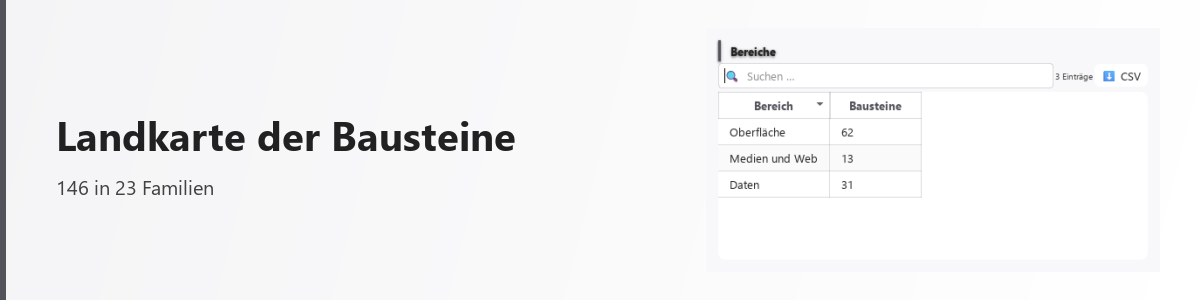
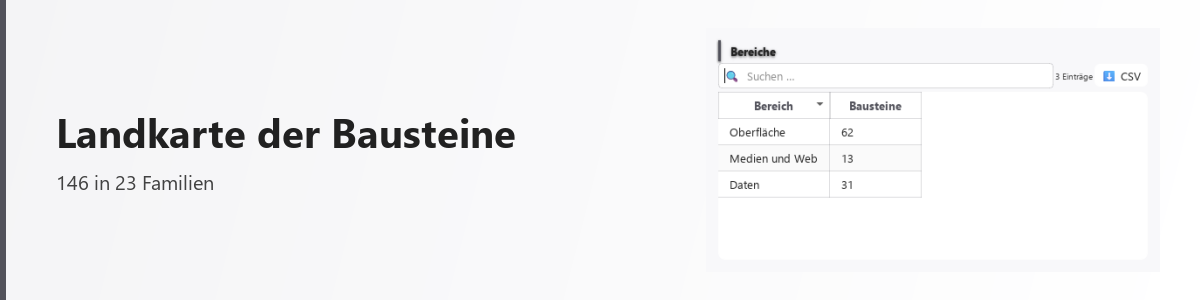
Schaufenster: die Kopfbilder zeigen ihren Titel ganz, und kein Verweis zeigt ins Leere
Zwei Nachbesserungen am veroeffentlichten Stand:

- Die 20 Kopfbilder sind neu erzeugt. Der Titel wurde bisher in ein fest zugeschnittenes
  Feld gemalt und dabei oben und unten angeschnitten; er wird jetzt gemessen.
- Das README verwies auf docs/ENTWICKLERSTART.md — eine Datei aus dem Quelltext-Baum, den
  dieser Zweig bewusst nicht traegt. Der Verweis ist eine Angabe geworden.

Erzeugt mit scripts/schaufenster_zweig.py --bauen (Inhalt aus dem Commit, nicht aus dem
Arbeitsbaum).

Changed region(s): [[0.0308, 0.39, 0.4317, 0.51], [0.0308, 0.57, 0.185, 0.66]]

diff --git a/public/news/index.md b/public/news/index.md
@@ -6,4 +6,12 @@ icon: material/bullhorn
 Nicht jede Fassung bekommt hier einen Eintrag. Aufgeführt ist, was für die
 Benutzung einen Unterschied macht — nicht jede innere Änderung.
 
-Bisher gibt es keinen Eintrag.
+| Fassung | Was sich geändert hat |
+| --- | --- |
+| [2.998.0](2.998.0.md) | Woher die Bestandteile kommen, steht jetzt geschrieben |
+| [2.981.0](2.981.0.md) | Die Website gibt es jetzt auch auf Englisch |
+| [2.975.0](2.975.0.md) | Videos bekommen Untertitel |
+| [2.965.0](2.965.0.md) | Die Plattform hat jetzt eine Startseite |
+
+Die Veröffentlichungen lassen sich als Nachrichtenstrom abonnieren:
+<https://github.com/beastwareteam/genie-platform/releases.atom>

diff --git a/public/news/2.998.0.md b/public/news/2.998.0.md
@@ -1,0 +1,13 @@
+---
+icon: material/tag
+---
+# Woher die Bestandteile kommen, steht jetzt geschrieben
+
+*Fassung 2.998.0 · 21.08.2026*
+
+Eine neue Seite listet auf, welche fremden Bausteine mitgeliefert werden, unter welcher
+Lizenz sie stehen und was das für die Weitergabe bedeutet — in Alltagssprache, nicht als
+Rechtstext.
+
+Für das Gesamtwerk selbst ist noch keine Lizenz gesetzt; auch das steht dort, statt
+unerwähnt zu bleiben.

diff --git a/public/news/2.965.0.md b/public/news/2.965.0.md
@@ -1,0 +1,10 @@
+---
+icon: material/tag
+---
+# Die Plattform hat jetzt eine Startseite
+
+*Fassung 2.965.0 · 21.08.2026*
+
+Es gibt jetzt einen Ort, der in wenigen Sätzen erklärt, was die Plattform ist, was sie kann
+und wie man anfängt — mit einem Bild aus einem echten Bau statt einer Zeichnung, und mit
+Zahlen, die gegen die Plattform selbst geprüft werden.

diff --git a/README.md b/README.md
@@ -58,7 +58,8 @@ Bedienung.
 ## Für Entwickler
 
 Einrichtung, Server-Betrieb, Architektur-Prüfung und Verzeichnisaufbau stehen in
-[docs/ENTWICKLERSTART.md](docs/ENTWICKLERSTART.md).
+`docs/ENTWICKLERSTART.md` — im Quelltext-Baum. Dieses Verzeichnis trägt die Beschreibung,
+nicht den Quelltext; die Datei liegt hier deshalb bewusst nicht.
 
 ---
 

diff --git a/public/news/2.981.0.md b/public/news/2.981.0.md
@@ -1,0 +1,9 @@
+---
+icon: material/tag
+---
+# Die Website gibt es jetzt auch auf Englisch
+
+*Fassung 2.981.0 · 21.08.2026*
+
+Der Einstieg und einige Erklärseiten liegen nun auch auf Englisch vor. Maschinell übersetzte
+Seiten sind als solche gekennzeichnet; die deutsche Fassung bleibt maßgeblich.

diff --git a/public/news/2.975.0.md b/public/news/2.975.0.md
@@ -1,0 +1,8 @@
+---
+icon: material/tag
+---
+# Videos bekommen Untertitel
+
+*Fassung 2.975.0 · 21.08.2026*
+
+Zu jedem Erklärvideo gibt es jetzt Untertitel und denselben Ablauf noch einmal als Text.
